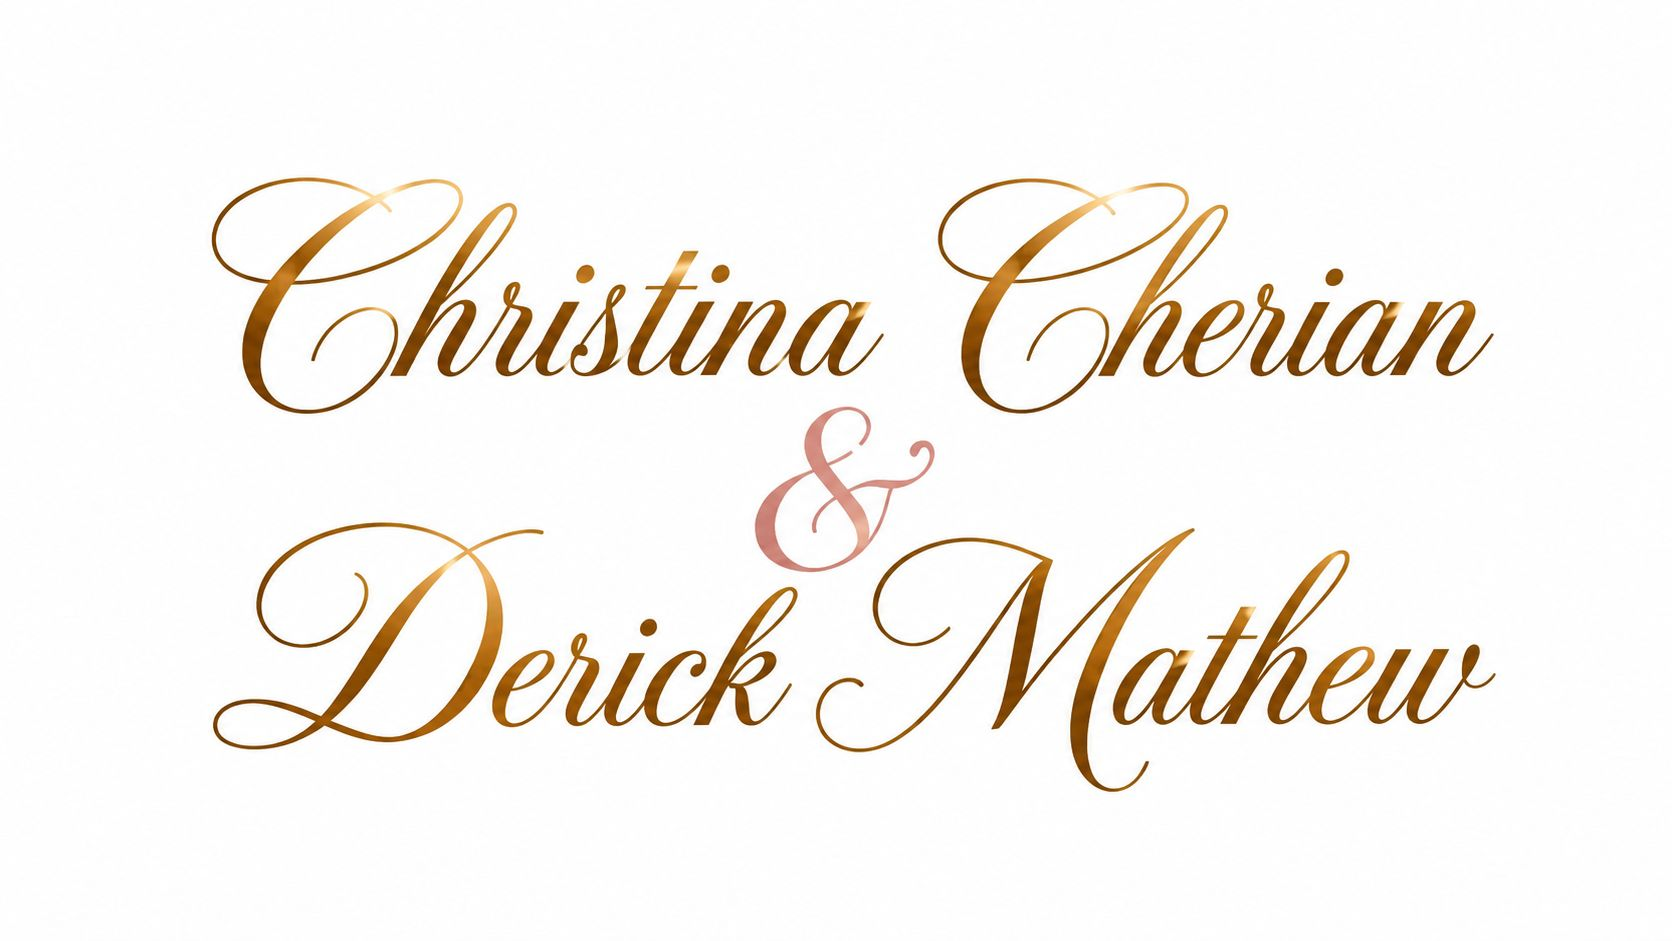
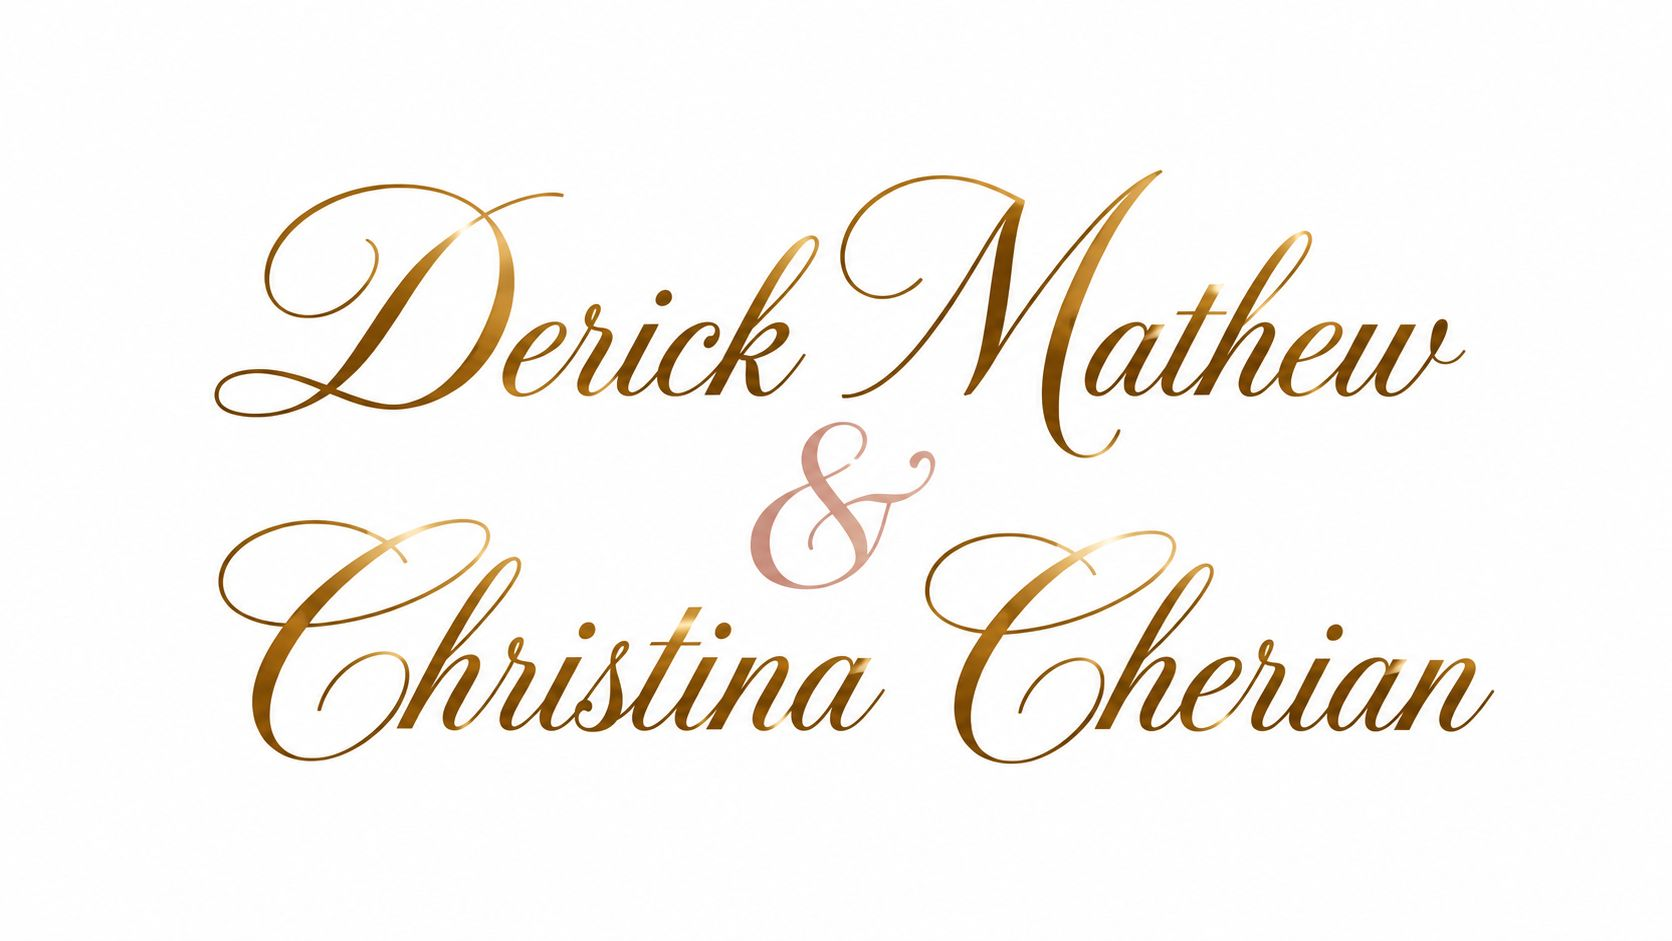
Add gallery section with five photos

Changed region(s): [[0.1244, 0.1849, 0.9019, 0.8629], [0.311, 0.1849, 0.3421, 0.2157]]

diff --git a/index.html b/index.html
@@ -5,23 +5,23 @@
   <meta name="viewport" content="width=device-width, initial-scale=1, viewport-fit=cover">
   <meta name="theme-color" content="#FFF9EF">
 
-  <title>Christina &amp; Derick | Engagement Invitation</title>
-  <meta name="description" content="Together with their families, Christina Cherian and Derick Mathew invite you to celebrate their engagement on 2 January 2027.">
+  <title>Derick &amp; Christina | Wedding Invitation</title>
+  <meta name="description" content="Together with their families, Derick Mathew and Christina Cherian invite you to celebrate their wedding on 9 January 2027.">
 
   <!-- Open Graph -->
   <meta property="og:type" content="website">
-  <meta property="og:title" content="Christina &amp; Derick | Engagement Invitation">
-  <meta property="og:description" content="Together with their families, Christina Cherian and Derick Mathew invite you to celebrate their engagement on 2 January 2027.">
-  <meta property="og:url" content="https://christina-derick.vercel.app/">
-  <meta property="og:image" content="https://christina-derick.vercel.app/assets/og-image.jpg">
-  <meta property="og:image:secure_url" content="https://christina-derick.vercel.app/assets/og-image.jpg">
+  <meta property="og:title" content="Derick &amp; Christina | Wedding Invitation">
+  <meta property="og:description" content="Together with their families, Derick Mathew and Christina Cherian invite you to celebrate their wedding on 9 January 2027.">
+  <meta property="og:url" content="https://derick-christina.vercel.app/">
+  <meta property="og:image" content="https://derick-christina.vercel.app/assets/og-image.jpg">
+  <meta property="og:image:secure_url" content="https://derick-christina.vercel.app/assets/og-image.jpg">
   <meta property="og:image:type" content="image/jpeg">
   <meta property="og:image:width" content="1200">
   <meta property="og:image:height" content="675">
-  <meta property="og:image:alt" content="The engagement of Christina Cherian and Derick Mathew, Saturday, 2 January 2027 at 4:30 PM">
+  <meta property="og:image:alt" content="The wedding of Derick Mathew and Christina Cherian, Saturday, 9 January 2027 at 3:00 PM">
   <meta property="og:locale" content="en_IN">
   <meta name="twitter:card" content="summary_large_image">
-  <meta name="twitter:image" content="https://christina-derick.vercel.app/assets/og-image.jpg">
+  <meta name="twitter:image" content="https://derick-christina.vercel.app/assets/og-image.jpg">
 
   <!-- Fonts -->
   <link rel="preconnect" href="https://fonts.googleapis.com">
@@ -49,7 +49,7 @@
 <body>
 
   <!-- ============ SCREEN 1 — STATIC OPENING (tap the wax stamp) ============ -->
-  <section class="opening" id="opening" aria-label="Engagement invitation opening">
+  <section class="opening" id="opening" aria-label="Wedding invitation opening">
     <div class="opening-stage" id="opening-stage">
       <div class="envelope-scene" aria-hidden="true">
         <img class="envelope-base" src="assets/envelope/envelope-base.jpg" alt="" fetchpriority="high">
@@ -59,7 +59,7 @@
         <img class="envelope-flap flap-bottom" src="assets/envelope/flap-bottom.png" alt="">
         <div class="envelope-light"></div>
       </div>
-      <button type="button" class="open-seal" id="open-btn" aria-label="Open Engagement Invitation">
+      <button type="button" class="open-seal" id="open-btn" aria-label="Open Wedding Invitation">
         <span class="seal" aria-hidden="true"><img src="assets/envelope/wax-seal.png" alt="" width="220" height="220"></span>
         <span class="seal-label" aria-hidden="true">OPEN INVITATION</span>
       </button>
@@ -67,7 +67,7 @@
   </section>
 
   <!-- ============ SCREEN 2 — MAIN INVITATION ============ -->
-  <main class="invitation" id="invitation" tabindex="-1" aria-label="Engagement invitation details">
+  <main class="invitation" id="invitation" tabindex="-1" aria-label="Wedding invitation details">
 
     <!-- Hosts + couple (chandelier / wedding aisle) -->
     <section class="hero" aria-labelledby="couple-heading">
@@ -86,19 +86,19 @@
           <cite class="verse-cite">1 Corinthians 13:13</cite>
         </blockquote>
 
-        <p class="parents reveal">Mrs. Shiny Cherian &amp; Mr. Cherian Joseph</p>
-        <p class="address reveal" style="--d:.12s">Elenjikkal House</p>
+        <p class="parents reveal">Mrs. Tresa Mathew &amp; Mr. Mathew Thomas</p>
+        <p class="address reveal" style="--d:.12s">Kappil Koippallil, Punnakunnam</p>
 
-        <p class="text reveal" style="--d:.24s">Request your gracious presence for the engagement ceremony of</p>
+        <p class="text reveal" style="--d:.24s">Request your gracious presence in the holy matrimony of our son</p>
 
         <h2 class="names" id="couple-heading">
-          <span class="gold-text reveal reveal--name" style="--d:.4s">Christina Cherian</span>
+          <span class="gold-text reveal reveal--name" style="--d:.4s">Derick Mathew</span>
           <span class="amp reveal" style="--d:.55s" aria-hidden="true">&amp;</span>
-          <span class="gold-text reveal reveal--name" style="--d:.7s">Derick Mathew</span>
+          <span class="gold-text reveal reveal--name" style="--d:.7s">Christina Cherian</span>
         </h2>
 
-        <p class="parents parents--bride reveal" style="--d:.9s">S/o. Mathew Thomas &amp; Tresa Mathew</p>
-        <p class="address reveal" style="--d:1s">Kappil Koipallil</p>
+        <p class="parents parents--bride reveal" style="--d:.9s">D/o. Cherian Joseph &amp; Shiny Cherian</p>
+        <p class="address reveal" style="--d:1s">Elanjikkal House, North Paravur</p>
 
         <div class="hero-quote reveal" style="--d:1.1s" aria-label="Closing sentiment">
           <div class="hero-quote-divider" aria-hidden="true"></div>
@@ -116,13 +116,13 @@
 
     <!-- Date + countdown -->
     <section class="date-section" aria-labelledby="date-heading">
-      <h2 class="sr-only" id="date-heading">Engagement date and countdown</h2>
+      <h2 class="sr-only" id="date-heading">Wedding date and countdown</h2>
 
       <p class="label label--lg reveal">Saturday</p>
-      <p class="date reveal" style="--d:.1s"><time datetime="2027-01-02">02 January 2027</time></p>
-      <p class="time reveal" style="--d:.2s">At <time datetime="16:30">4:30 PM</time></p>
+      <p class="date reveal" style="--d:.1s"><time datetime="2027-01-09">9 January 2027</time></p>
+      <p class="time reveal" style="--d:.2s">At <time datetime="15:00">3:00 PM</time></p>
 
-            <div class="countdown reveal" id="countdown" role="timer" aria-live="off" aria-label="Time remaining until the engagement" style="--d:.4s">
+            <div class="countdown reveal" id="countdown" role="timer" aria-live="off" aria-label="Time remaining until the wedding" style="--d:.4s">
         <div class="cd-unit"><span class="cd-num" data-unit="days">00</span><span class="cd-label">Days</span></div>
         <div class="cd-unit"><span class="cd-num" data-unit="hours">00</span><span class="cd-label">Hours</span></div>
         <div class="cd-unit"><span class="cd-num" data-unit="minutes">00</span><span class="cd-label">Minutes</span></div>
@@ -133,7 +133,7 @@
       <div class="divider reveal" style="--d:.5s" aria-hidden="true"><i></i></div>
       <div class="venues-compliments reveal" style="--d:.6s">
         <p class="closing-lead">With Best Compliments</p>
-        <p class="closing-names">Charles Cherian</p>
+        <p class="closing-names">Donna &amp; Joel</p>
       </div>
     </section>
 
@@ -143,35 +143,38 @@
       <div class="scene-bg" aria-hidden="true"><i class="slice slice--top"></i><i class="slice slice--mid"></i><i class="slice slice--bot"></i></div>
 
       <div class="scene-content">
-        <h2 class="sr-only" id="venues-heading">Engagement venues</h2>
+        <h2 class="sr-only" id="venues-heading">Wedding venues</h2>
 
         <article class="venue reveal">
-          <h3 class="label label--lg">Engagement Ceremony</h3>
-          <p class="venue-name">St. Thomas Syro Malabar Church</p>
-          <p class="address">North Paravur</p>
-          <p class="time">At <time datetime="16:30">4:30 PM</time></p>
-          <a class="btn btn--outline" href="https://www.google.com/maps/search/?api=1&amp;query=St+Thomas+Syro+Malabar+Church+North+Paravur" target="_blank" rel="noopener noreferrer">View Location<span class="sr-only"> of the engagement ceremony (opens in a new tab)</span></a>
+          <h3 class="label label--lg">Wedding Ceremony</h3>
+          <p class="venue-name">St. Joseph Syro Malabar Church</p>
+          <p class="address">Punnakunnam, Kuttanad, Alappuzha</p>
+          <a class="btn btn--outline" href="https://www.google.com/maps/search/?api=1&amp;query=St+Joseph+Syro+Malabar+Church+Punnakunnam+Kuttanad+Alappuzha" target="_blank" rel="noopener noreferrer">View Location<span class="sr-only"> of the wedding ceremony (opens in a new tab)</span></a>
         </article>
 
         <div class="divider reveal" aria-hidden="true"><i></i></div>
 
         <article class="venue reveal" style="--d:.15s">
-          <p class="address">Directly followed by</p>
-          <h3 class="label label--lg">Reception</h3>
-          <p class="venue-name">One Kochi</p>
-          <p class="address">Airport Road, Nedumbassery</p>
-          <p class="time">At <time datetime="18:30">6:30 PM</time></p>
-          <a class="btn btn--outline" href="https://www.google.com/maps/search/?api=1&amp;query=One+Kochi+Airport+Road+Nedumbassery" target="_blank" rel="noopener noreferrer">View Location<span class="sr-only"> of the reception (opens in a new tab)</span></a>
-        </article>
-
-        <div class="divider reveal" aria-hidden="true"><i></i></div>
-
-        <article class="venue reveal" style="--d:.15s">
-          <h3 class="label label--lg">Dress Code</h3>
-          <p class="venue-name">Ethnic Elegance</p>
+          <h3 class="label label--lg">Wedding Reception</h3>
+          <p class="venue-name">Vijaya International Convention Centre</p>
+          <p class="address">Thiruvalla</p>
+          <p class="time">At <time datetime="18:00">7:00 PM</time></p>
+          <a class="btn btn--outline" href="https://www.google.com/maps/search/?api=1&amp;query=Vijaya+International+Convention+Centre+Thiruvalla" target="_blank" rel="noopener noreferrer">View Location<span class="sr-only"> of the wedding reception (opens in a new tab)</span></a>
         </article>
 
 
+      </div>
+    </section>
+
+    <!-- GALLERY -->
+    <section class="gallery-section" aria-labelledby="gallery-heading">
+      <h2 class="gallery-title" id="gallery-heading">Our Moments</h2>
+      <div class="gallery-grid">
+        <img src="assets/gallery1.jpeg" alt="Derick and Christina, photo 1" loading="lazy">
+        <img src="assets/gallery2.jpeg" alt="Derick and Christina, photo 2" loading="lazy">
+        <img src="assets/gallery3.jpeg" alt="Derick and Christina, photo 3" loading="lazy">
+        <img src="assets/gallery4.jpeg" alt="Derick and Christina, photo 4" loading="lazy">
+        <img src="assets/gallery5.jpeg" alt="Derick and Christina, photo 5" loading="lazy">
       </div>
     </section>
 

diff --git a/style.css b/style.css
@@ -758,7 +758,7 @@ p, h1, h2, h3 { margin: 0; }
 
 /* Text sits in the clean paper between the church and the reception artwork */
 .scene--venues .scene-content {
-  padding: calc(var(--I) * var(--a) + 2cqw) 16cqw calc(var(--I) * var(--b) + 12cqw);
+  padding: calc(var(--I) * var(--a) + 2cqw) 16cqw calc(var(--I) * var(--b) + 1cqw);
 }
 
 .scene--venues .divider { margin-block: clamp(1rem, 5cqw, 1.6rem); }
@@ -796,8 +796,6 @@ p, h1, h2, h3 { margin: 0; }
 .venue.is-visible > :nth-child(2) { transition-delay: calc(var(--d, 0s) + .12s); }
 .venue.is-visible > :nth-child(3) { transition-delay: calc(var(--d, 0s) + .24s); }
 .venue.is-visible > :nth-child(4) { transition-delay: calc(var(--d, 0s) + .4s); }
-.venue.is-visible > :nth-child(5) { transition-delay: calc(var(--d, 0s) + .5s); }
-.venue.is-visible > :nth-child(6) { transition-delay: calc(var(--d, 0s) + .6s); }
 .venue.reveal { opacity: 1; transform: none; transition: none; }
 
 .venue-name {
@@ -1277,3 +1275,44 @@ p, h1, h2, h3 { margin: 0; }
 .is-unfolding .envelope-light { opacity:1; transform:scale(1.45); transition-delay:.95s; }
 @keyframes seal-release { 0%{transform:scale(1);opacity:1} 45%{transform:scale(.9);opacity:1} 100%{transform:scale(1.12);opacity:0} }
 @media(prefers-reduced-motion:reduce) { .envelope-flap,.envelope-light,.seal { transition:none!important; animation:none!important; } }
+
+/* ---------- Gallery ---------- */
+.gallery-section {
+  background: var(--ivory-paper);
+  padding: 4rem 16px;
+  text-align: center;
+}
+.gallery-title {
+  font-family: var(--font-script);
+  font-weight: 400;
+  font-size: clamp(2.4rem, 8vw, 3.5rem);
+  color: var(--gold-deep);
+  margin: 0 0 2rem;
+}
+.gallery-grid {
+  display: grid;
+  grid-template-columns: repeat(2, 1fr);
+  gap: 10px;
+  max-width: 900px;
+  margin: 0 auto;
+}
+.gallery-grid img {
+  width: 100%;
+  height: 100%;
+  aspect-ratio: 3 / 4;
+  object-fit: cover;
+  display: block;
+  border: 1px solid var(--gold-line);
+  border-radius: 4px;
+}
+.gallery-grid img:first-child {
+  grid-column: 1 / -1;
+  aspect-ratio: 4 / 3;
+}
+@media (min-width: 768px) {
+  .gallery-grid { grid-template-columns: repeat(3, 1fr); }
+  .gallery-grid { grid-auto-rows: 240px; }
+  .gallery-grid img { aspect-ratio: auto; }
+  .gallery-grid img:first-child { grid-column: span 2; grid-row: span 2; }
+  .gallery-grid img:last-child { grid-column: span 2; }
+}

diff --git a/script.js b/script.js
@@ -7,8 +7,8 @@
 
   /* ---------- Configuration ---------- */
   const CONFIG = {
-    // Engagement start: 2 January 2027, 4:30 PM IST
-    weddingDate: '2027-01-02T16:30:00+05:30',
+    // Wedding start: 9 January 2027, 3:00 PM IST
+    weddingDate: '2027-01-09T15:00:00+05:30',
 
     // RSVP backend. Paste the URL that should receive RSVP submissions.
     // The form POSTs JSON: { name, attending, guests, note, submittedAt }
